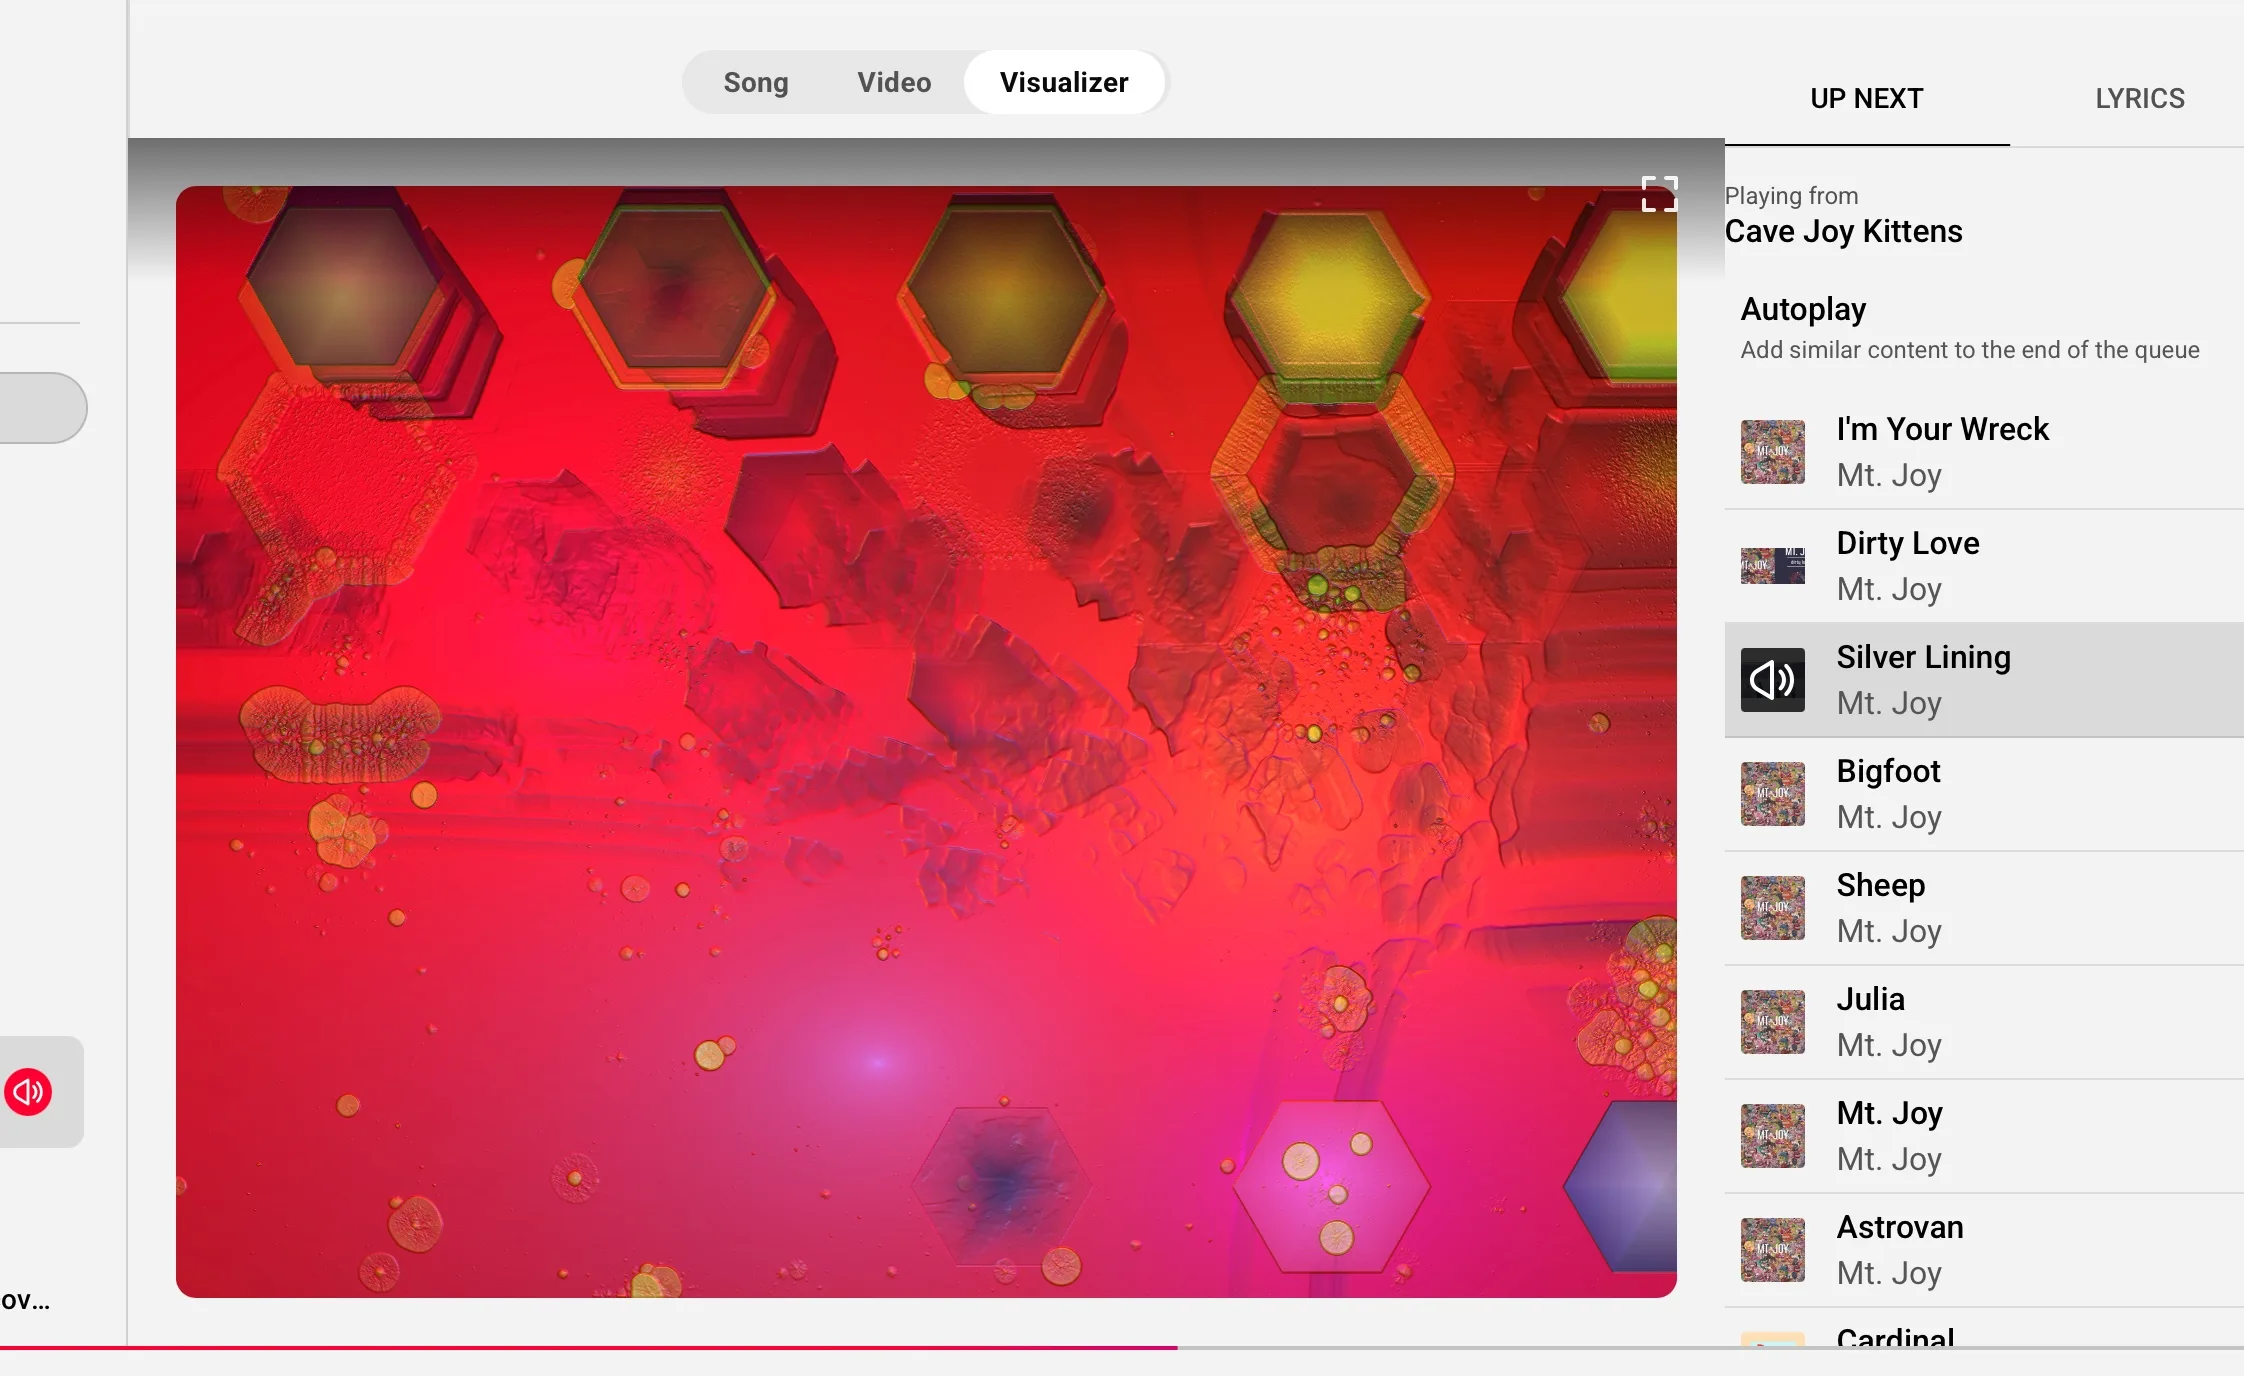
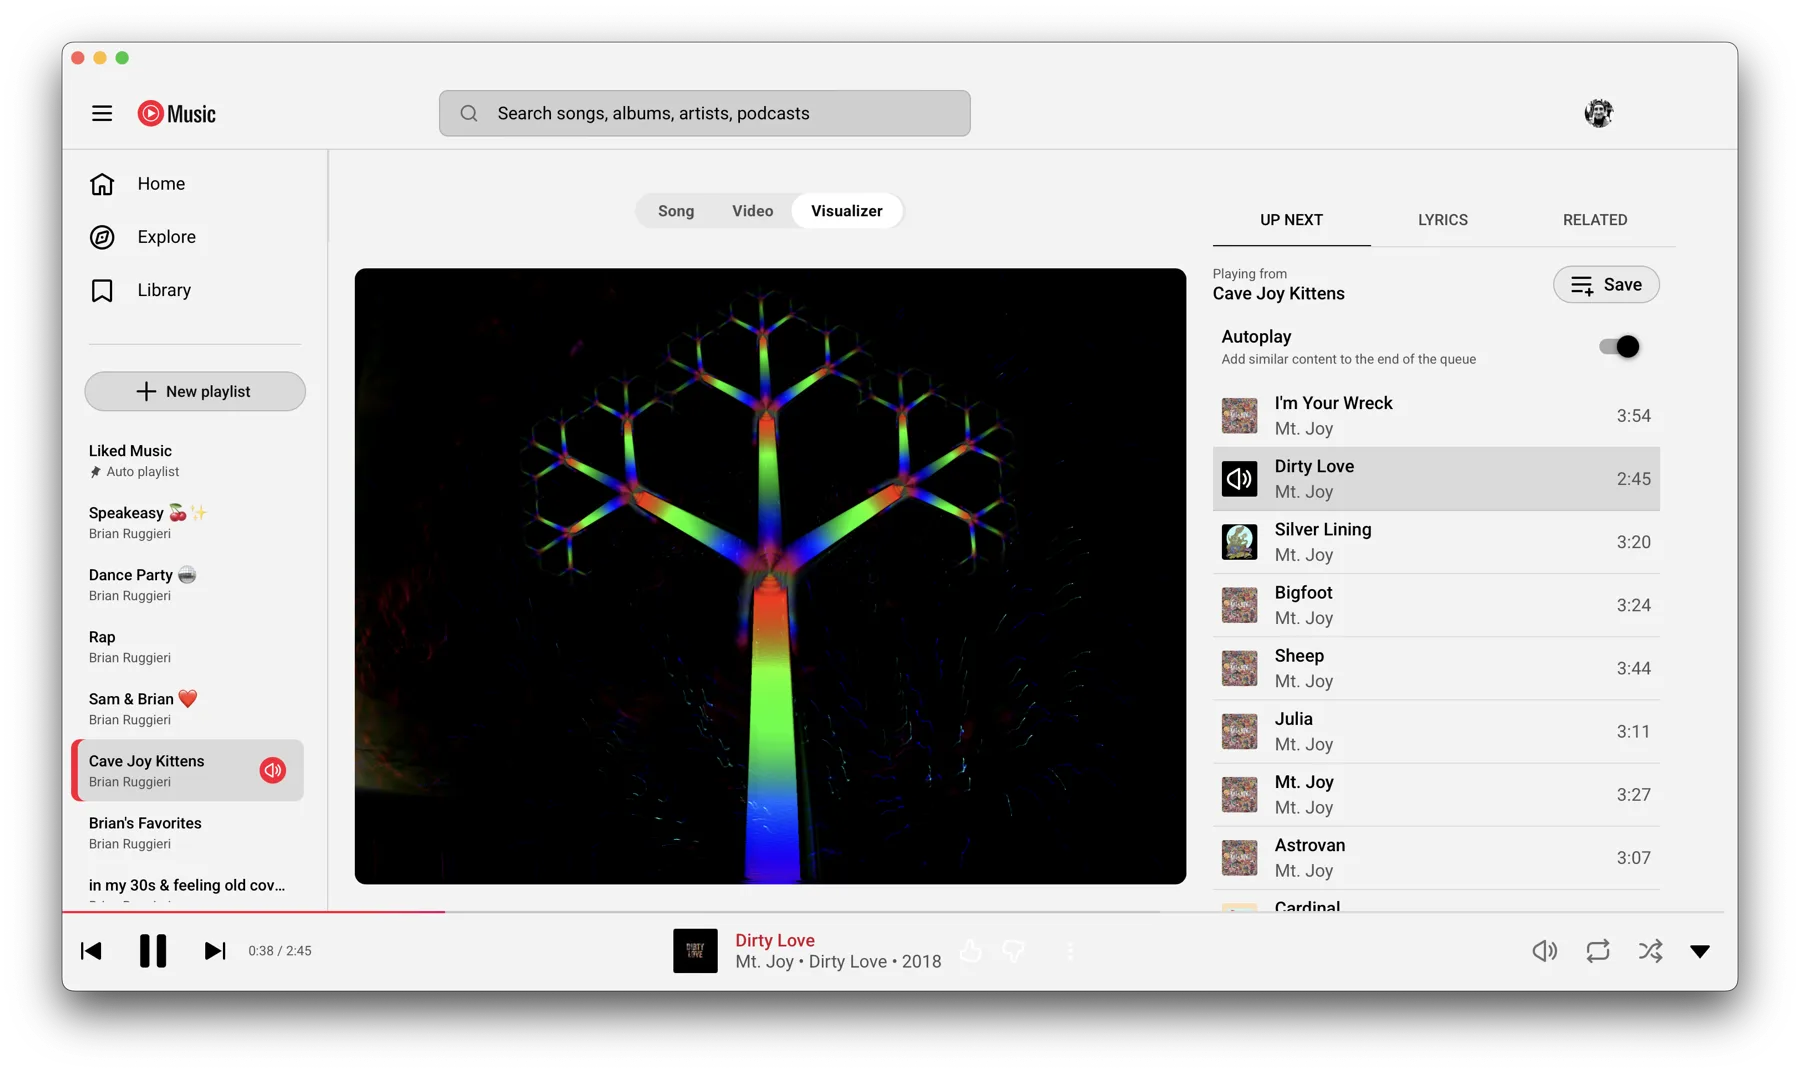
Use full-window transparent hero shot; add frameless hero variant

diff --git a/static/css/projects.css b/static/css/projects.css
@@ -529,6 +529,16 @@
     display: block;
 }
 
+/* Bare hero: image supplies its own window chrome + shadow (transparent PNG),
+   so drop the container frame to avoid double-framing. */
+.project-detail__hero--bare {
+    border: none;
+    border-radius: 0;
+    box-shadow: none;
+    overflow: visible;
+    background: transparent;
+}
+
 /* Intro body text */
 .project-detail__intro {
     font-size: 0.92rem;

diff --git a/layouts/projects/single.html b/layouts/projects/single.html
@@ -76,7 +76,7 @@
     {{/* ── Hero screenshot ── */}}
     {{ with $.Params.image }}
     {{ $webp := . | replaceRE `\.(png|jpg|jpeg)$` ".webp" }}
-    <div class="project-detail__hero">
+    <div class="project-detail__hero{{ if $.Params.heroBare }} project-detail__hero--bare{{ end }}">
       <picture>
         {{ if ne $webp . }}<source srcset="{{ $webp }}" type="image/webp">{{ end }}
         <img src="{{ . }}" alt="{{ $.Title }} — hero screenshot" loading="eager" />

diff --git a/content/projects/yt-music.md b/content/projects/yt-music.md
@@ -5,8 +5,9 @@ tags: ["Swift", "AppKit", "WebKit", "Core Audio", "JavaScript", "macOS"]
 github: "https://github.com/brianruggieri/yt-music-mac"
 ctaTitle: "See it on GitHub"
 ctaDesc: "Forked from 0xjemm/youtube-music-macos (MIT). All extensions below are my own work."
-image: "/img/projects/yt-music/visualizer.jpg"
-poster: "/img/projects/yt-music/visualizer.jpg"
+image: "/img/projects/yt-music/visualizer.png"
+poster: "/img/projects/yt-music/visualizer.png"
+heroBare: true
 featured: true
 year: "2026"
 featureColumns: 3